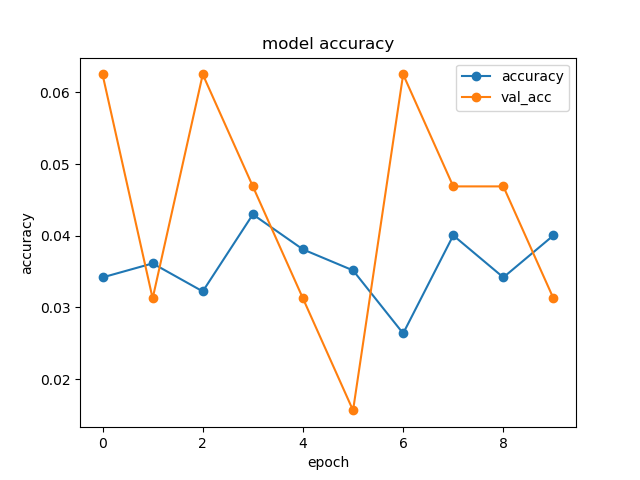
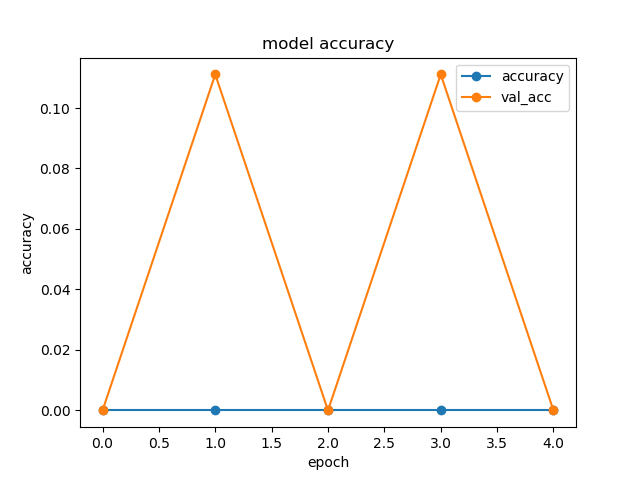
implemented save model

diff --git a/lrcnModel.py b/lrcnModel.py
@@ -20,8 +20,10 @@ from keras.utils import plot_model
 ##
 #   Trains a Deep Learning model on the 20bn-jester-v1 dataset.
 #   The model used is based on the idea of the lrcn, proposed in arXiv:1411.4389 [cs.CV]
-#   Because the dataset is large a data generator function is used.
-#   It imports the data in batches in parallel to the training and feeds it to the network periodically when new data is needed.
+#   Because the dataset is large a data generator function is used. It imports the data in batches in parallel to the training and feeds it to the network periodically when new data is needed.
+#   Shape of features: [batch, frame, height, width, channel]. The features are restricted to 30 frames per video and each frame is converted into a uniform size and uses RGB values. 
+#   Shape of labels: [batch, class]. The class is an one hot encoded vector.
+#   The model and training statistics are saved under 'modelSavePath'.
 ##
 
 # Paths
@@ -40,7 +42,7 @@ NUM_TRAIN_SAMPLES = 10240 #116254
 NUM_VALIDATION_SAMPLES = 640
 
 # model params
-epochs = 10
+epochs = 5
 batchsize = 32
 
 def data_generator(featurePath, labelPath, batchsize, labelEncoder):
@@ -49,12 +51,12 @@ def data_generator(featurePath, labelPath, batchsize, labelEncoder):
     
     while True:
         features = []
-        labels = []               
+        labels = []   
         
         while len(labels) < batchsize:  
-            videoId = next(videoIdIter)
+            videoId = next(videoIdIter)            
             directory = os.path.join(featurePath, str(videoId))
-            if len(os.listdir(directory)) >= NUM_FRAMES: # don't use if video length is too small        
+            if len(os.listdir(directory)) >= NUM_FRAMES: # don't use if video length is too small   
                 video = []    
                 for imageCounter, image in enumerate(os.listdir(directory), 1):   
                     if imageCounter > NUM_FRAMES: break # break if video length is too big        
@@ -66,8 +68,8 @@ def data_generator(featurePath, labelPath, batchsize, labelEncoder):
                 features.append(np.asarray(video))
                 labels.append(metaData.at[videoId, 'gesture'])
 
-        labels = labelEncoder.transform(np.asarray(labels).reshape(-1, 1))
         features = np.asarray(features)
+        labels = labelEncoder.transform(np.asarray(labels).reshape(-1, 1))
         yield(features, labels)
 
 def build_model():
@@ -84,7 +86,6 @@ def build_model():
 
 def plot_history(history):
     plot_model(model, to_file=modelSavePath+'model.png')
-
     # accuracy
     plt.plot(history.history['acc'],"o-",label="accuracy")
     plt.plot(history.history['val_acc'],"o-",label="val_acc")
@@ -93,7 +94,6 @@ def plot_history(history):
     plt.ylabel('accuracy')
     plt.legend(loc="upper right")
     plt.savefig(modelSavePath+'model_accuracy.png')
-
     # loss
     plt.plot(history.history['loss'],"o-",label="loss",)
     plt.plot(history.history['val_loss'],"o-",label="val_loss")
@@ -119,4 +119,5 @@ validation_batches = data_generator(videoDataPath, validateMetaDataPath, batchsi
 history = model.fit_generator(train_batches, steps_per_epoch=num_train_batches_per_epoch, epochs=epochs, verbose=1, validation_data=validation_batches, validation_steps=num_validation_batches_per_epoch)
 plot_history(history)
 
-print('done')
+model.save(modelSavePath+'model.h5')
+print("saved model at", modelSavePath)

diff --git a/testFiles/test.py b/testFiles/test.py
@@ -1,5 +1,6 @@
 import pandas as pd
 import numpy as np
+from keras.models import load_model
 from PIL import Image as PIL_Image# used for loading images
 import os # used for navigating to image path
 import imageio # used for writing images
